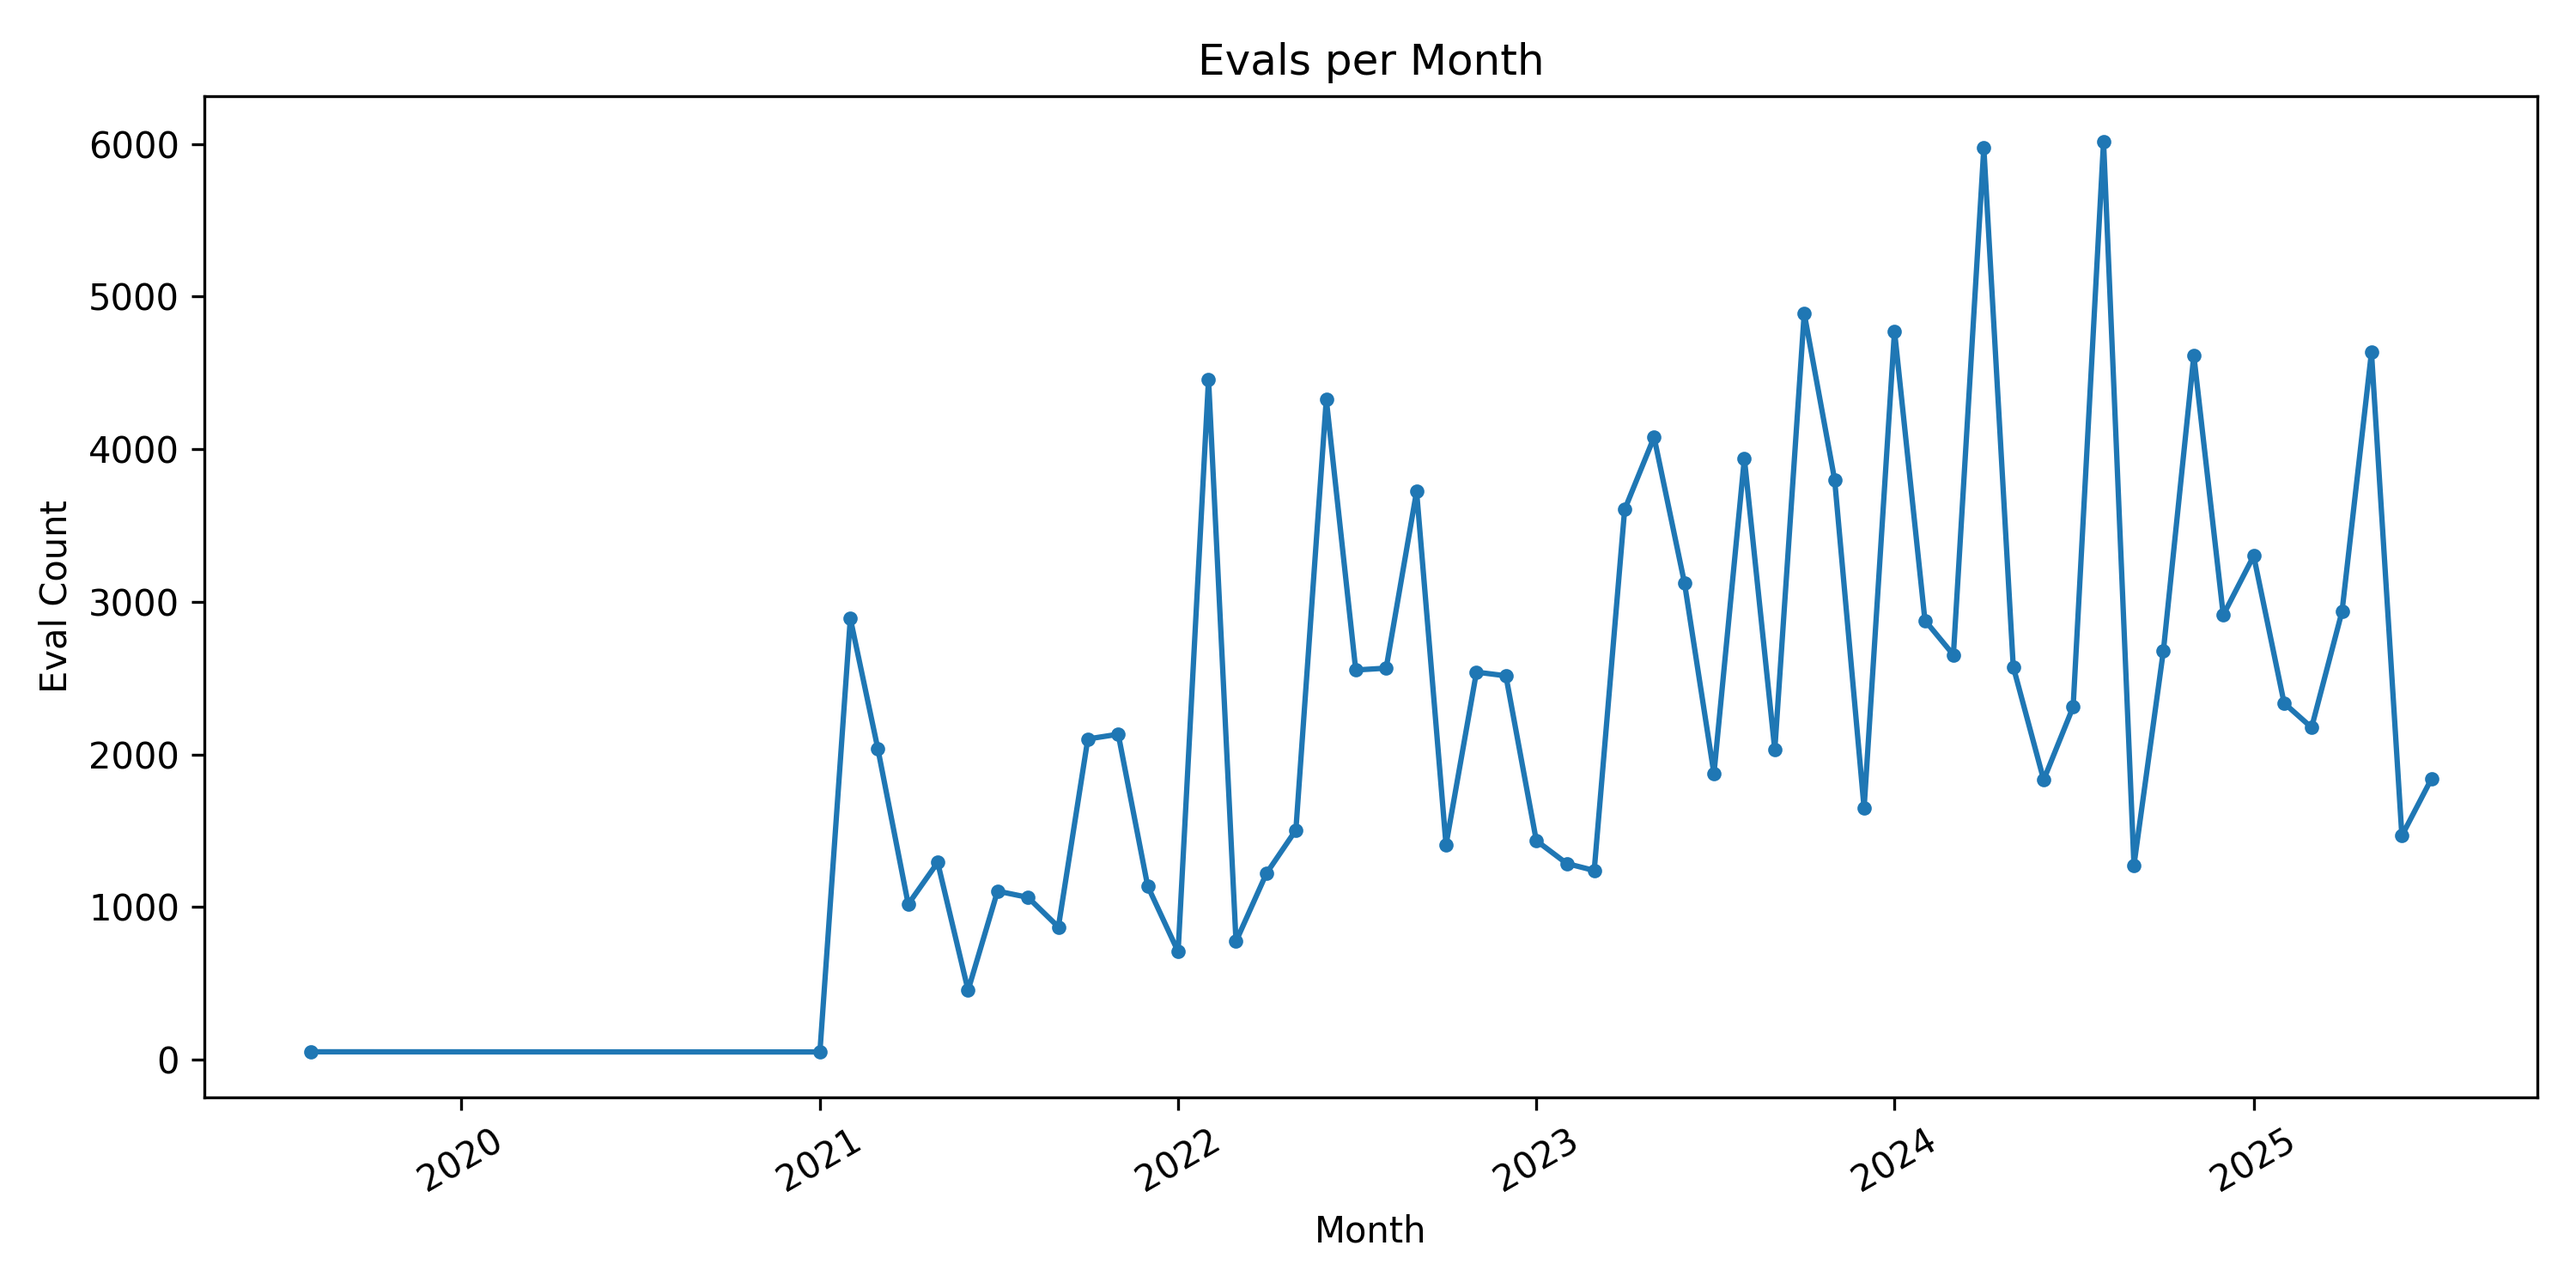
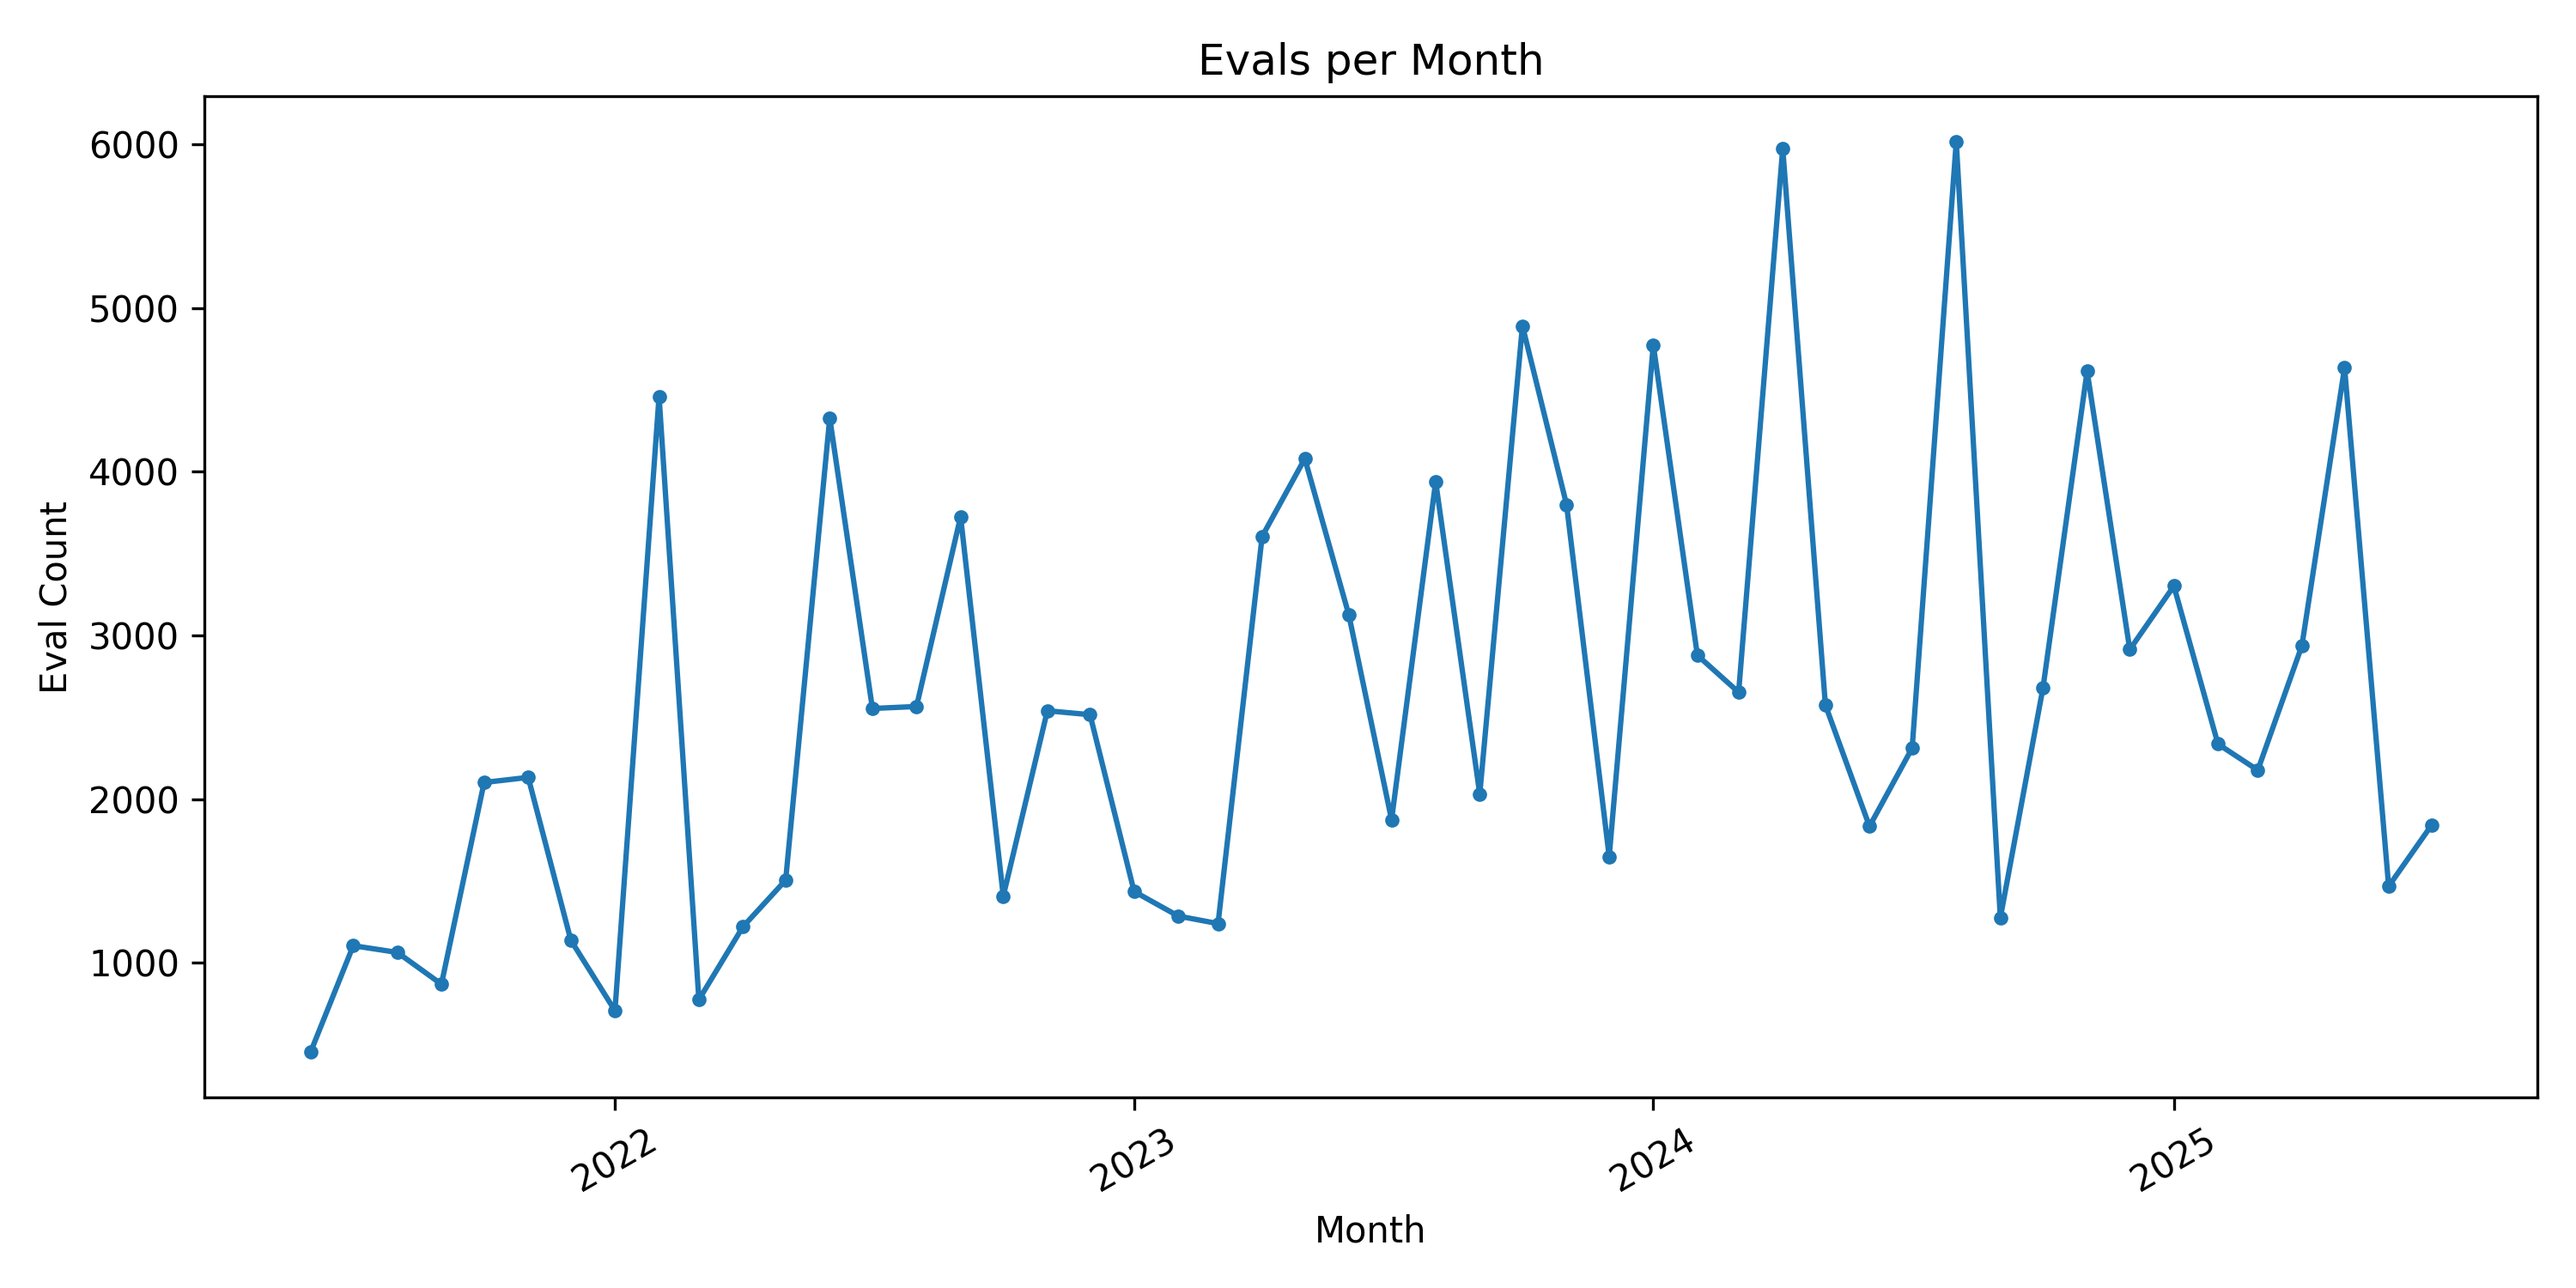
Change, how data is filtered to not have wierd data from pre first pisciene;

diff --git a/tools/plot.py b/tools/plot.py
@@ -15,9 +15,12 @@ def locator_and_formater(span):
     return locator, formatter
 
 
-def basic_plot(data_list, title="default", x_axis="default", y_axis="default", save_name="default"):
-    dates = [datetime.fromisoformat(d) for d, _ in data_list]
-    counts = [c for _, c in data_list]
+def basic_plot(data_list, title="default", x_axis="default", y_axis="default", save_name="default", start_date="2021-06-01"):
+    if start_date:
+        start_date = datetime.fromisoformat(start_date)    
+    filtered_data = [(datetime.fromisoformat(d), c) for d, c in data_list
+                     if not start_date or datetime.fromisoformat(d) >= start_date]
+    dates, counts = zip(*filtered_data)
     if len(dates) > 1:
         dates = dates[:-1]
         counts = counts[:-1]
@@ -36,17 +39,25 @@ def basic_plot(data_list, title="default", x_axis="default", y_axis="default", s
     plt.savefig(f"img/{save_name}.png", dpi=300)
 
 
-def multiplot(datasets: list, title="default", x_axis="default", y_axis="default", save_name="default"):
+def multiplot(datasets: list, title="default", x_axis="default", y_axis="default", save_name="default", start_date="2021-06-01"):
     plt.figure(figsize=(10, 5))
     all_dates = []
+    
+    if start_date:
+        start_date_dt = datetime.fromisoformat(start_date)
+    else:
+        start_date_dt = None
+    
     for data_list, label in datasets:
-        dates = [datetime.fromisoformat(d) for d, _ in data_list]
-        counts = [c for _, c in data_list]
+        filtered_data = [(datetime.fromisoformat(d), c) for d, c in data_list
+                        if not start_date_dt or datetime.fromisoformat(d) >= start_date_dt]
+        dates, counts = zip(*filtered_data)
         if len(dates) > 1:
             dates = dates[:-1]
             counts = counts[:-1]
         all_dates.extend(dates)
         plt.plot(dates, counts, label=label, marker=".")
+    
     span = (max(all_dates) - min(all_dates)).days
     locator, formatter = locator_and_formater(span=span)
     ax = plt.gca()

diff --git a/create_analysis_and_documentation.py b/create_analysis_and_documentation.py
@@ -80,3 +80,20 @@ evals_per_month_list_sorted = sorted(
 basic_plot(data_list=evals_per_month_list_sorted, x_axis="Month", y_axis="Eval Count", title="Evals per Month", save_name="evals_per_month_count")
 
 
+total_active_users_per_date
+not_active_points_map
+
+delta_points = []
+for key, value in evaluation_points_date_list_precise:
+    active_user = 1
+    not_active_point = 0
+    if key in not_active_points_map:
+        not_active_point = not_active_points_map[key]
+    if key in total_active_users_per_date:
+        active_user = total_active_users_per_date[key]
+    if active_user == 0:
+        active_user = 1
+    new_value = (value - not_active_point) / active_user
+    delta_points.append((key, new_value))
+
+basic_plot(data_list=delta_points, x_axis="Day", y_axis="Points", title="Points per User over Time", save_name="points_per_user_in_economy_over_time")

diff --git a/README.md b/README.md
@@ -6,6 +6,9 @@ Total Points in The 42 Heilbronn Eco System
 ![Non Active Points Growth Over Time](img/points_over_time_vs_non_active_points.png)
 Points held by active users and points held by non active users
 
+![Non Active Points Growth Over Time](img/points_per_user_in_economy_over_time.png)
+Points held by active users and points held by non active users
+
 ![Active users in given date](img/user_over_time_count.png)
 Active user is who still does projects at 42 and is not allumnied, or blackholed
 Student activity is meassured since piscine till alumation.
